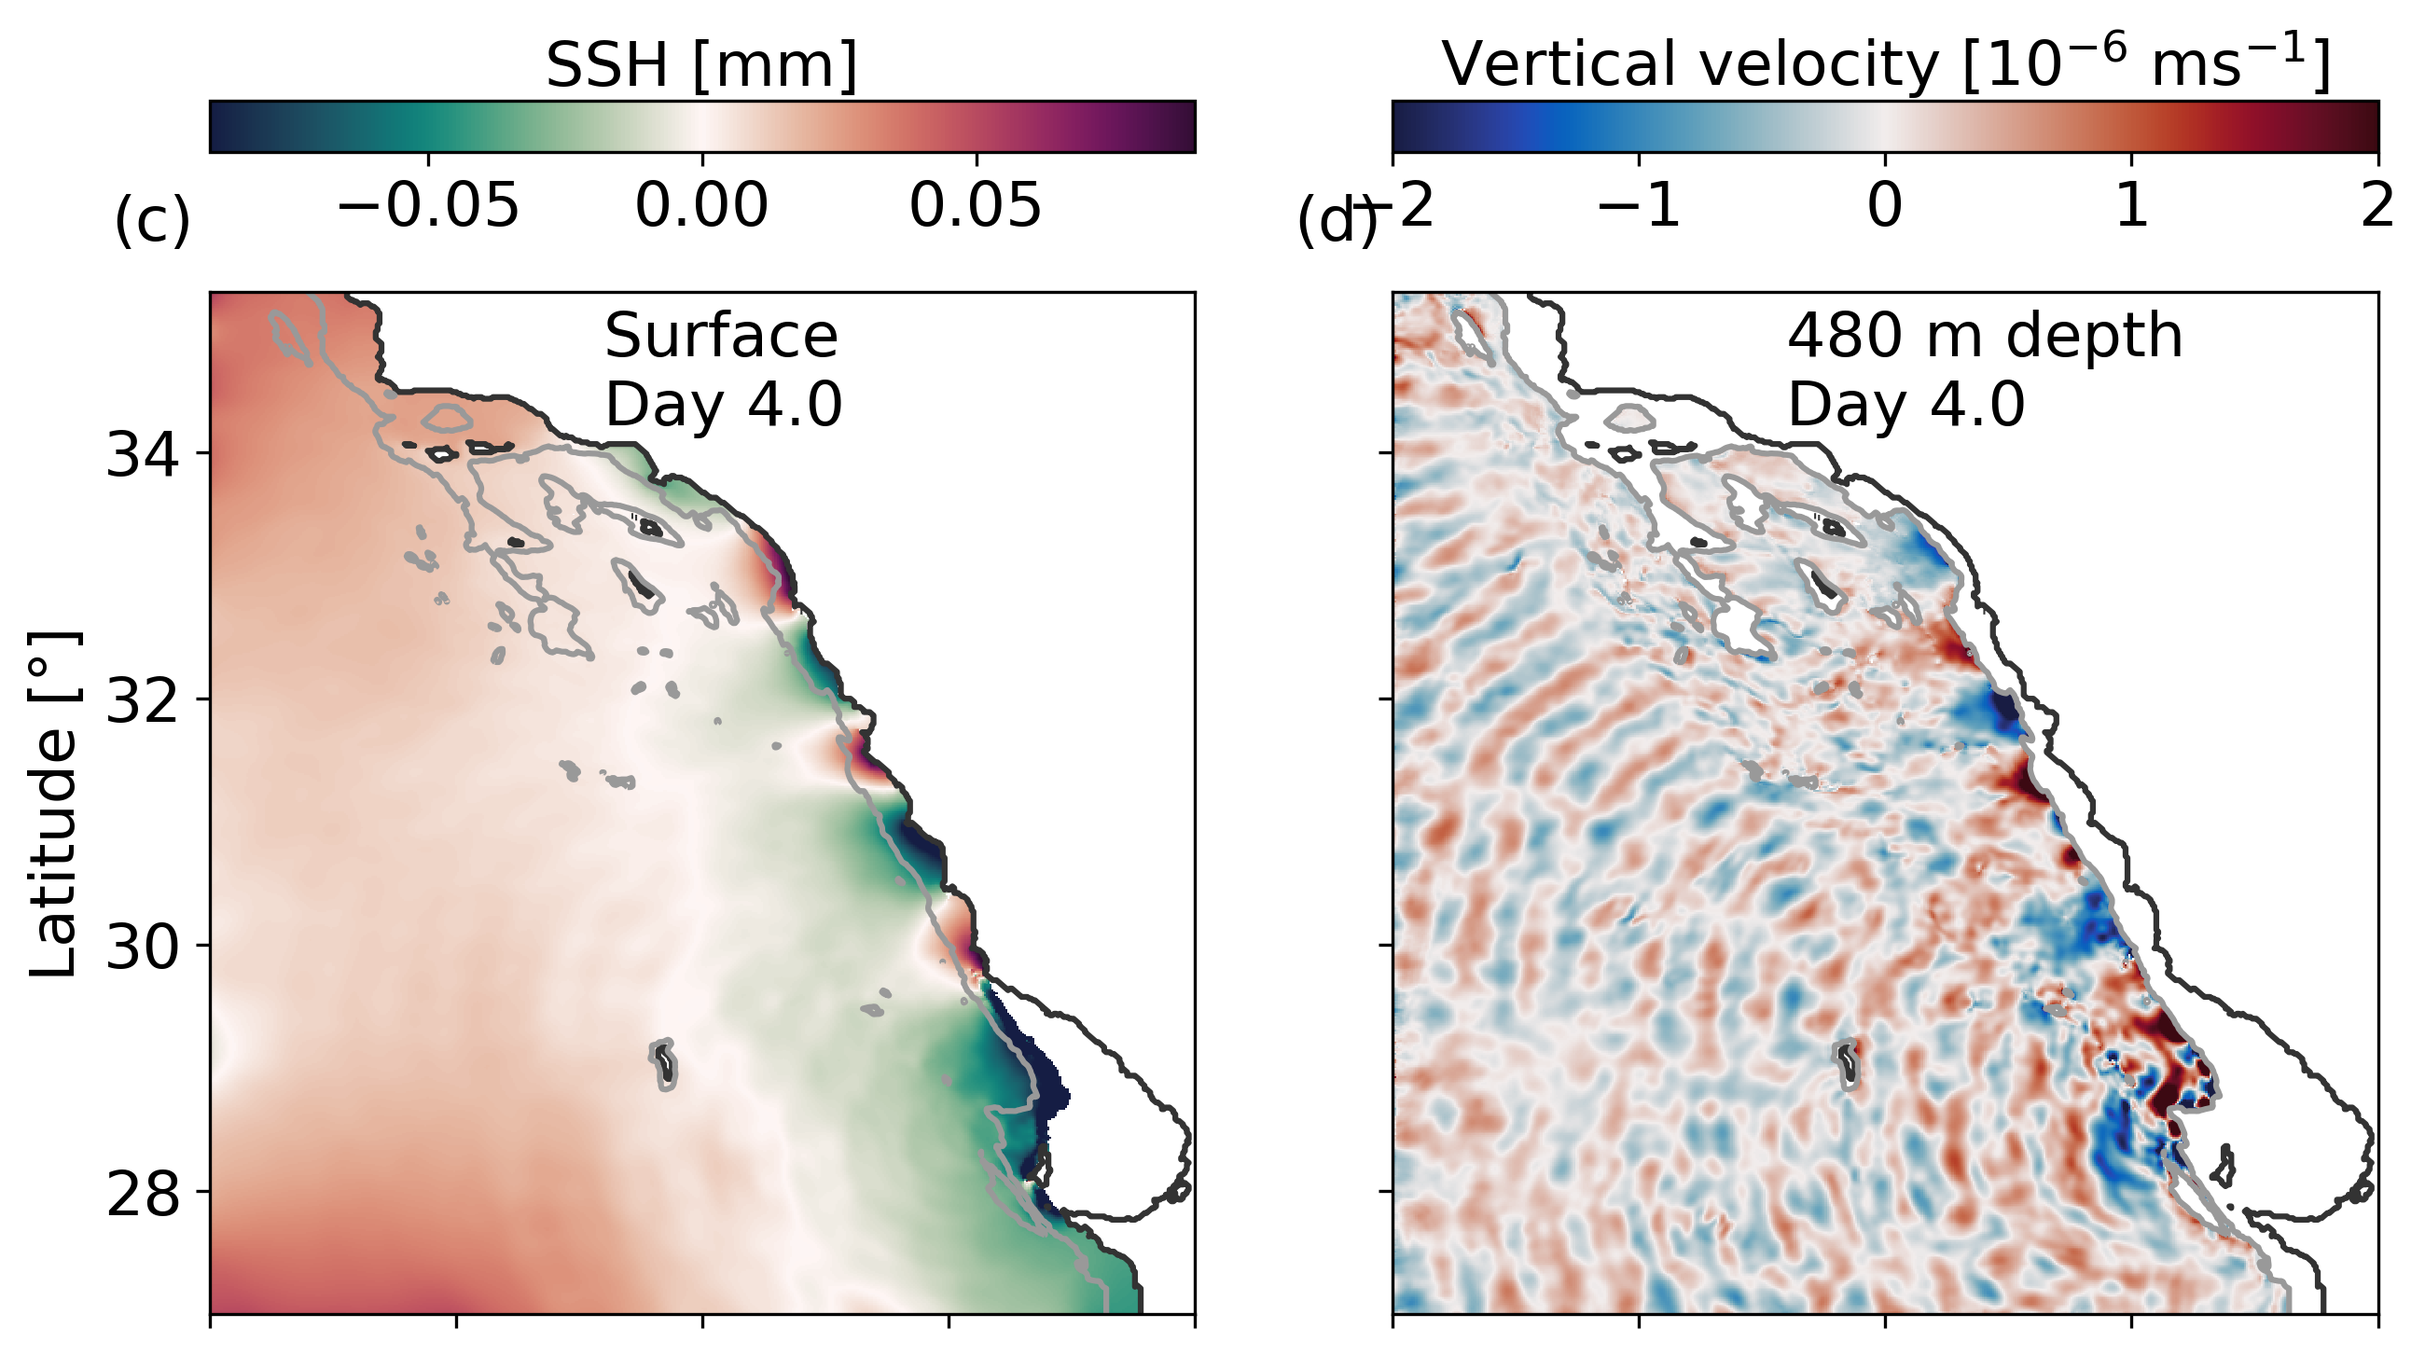
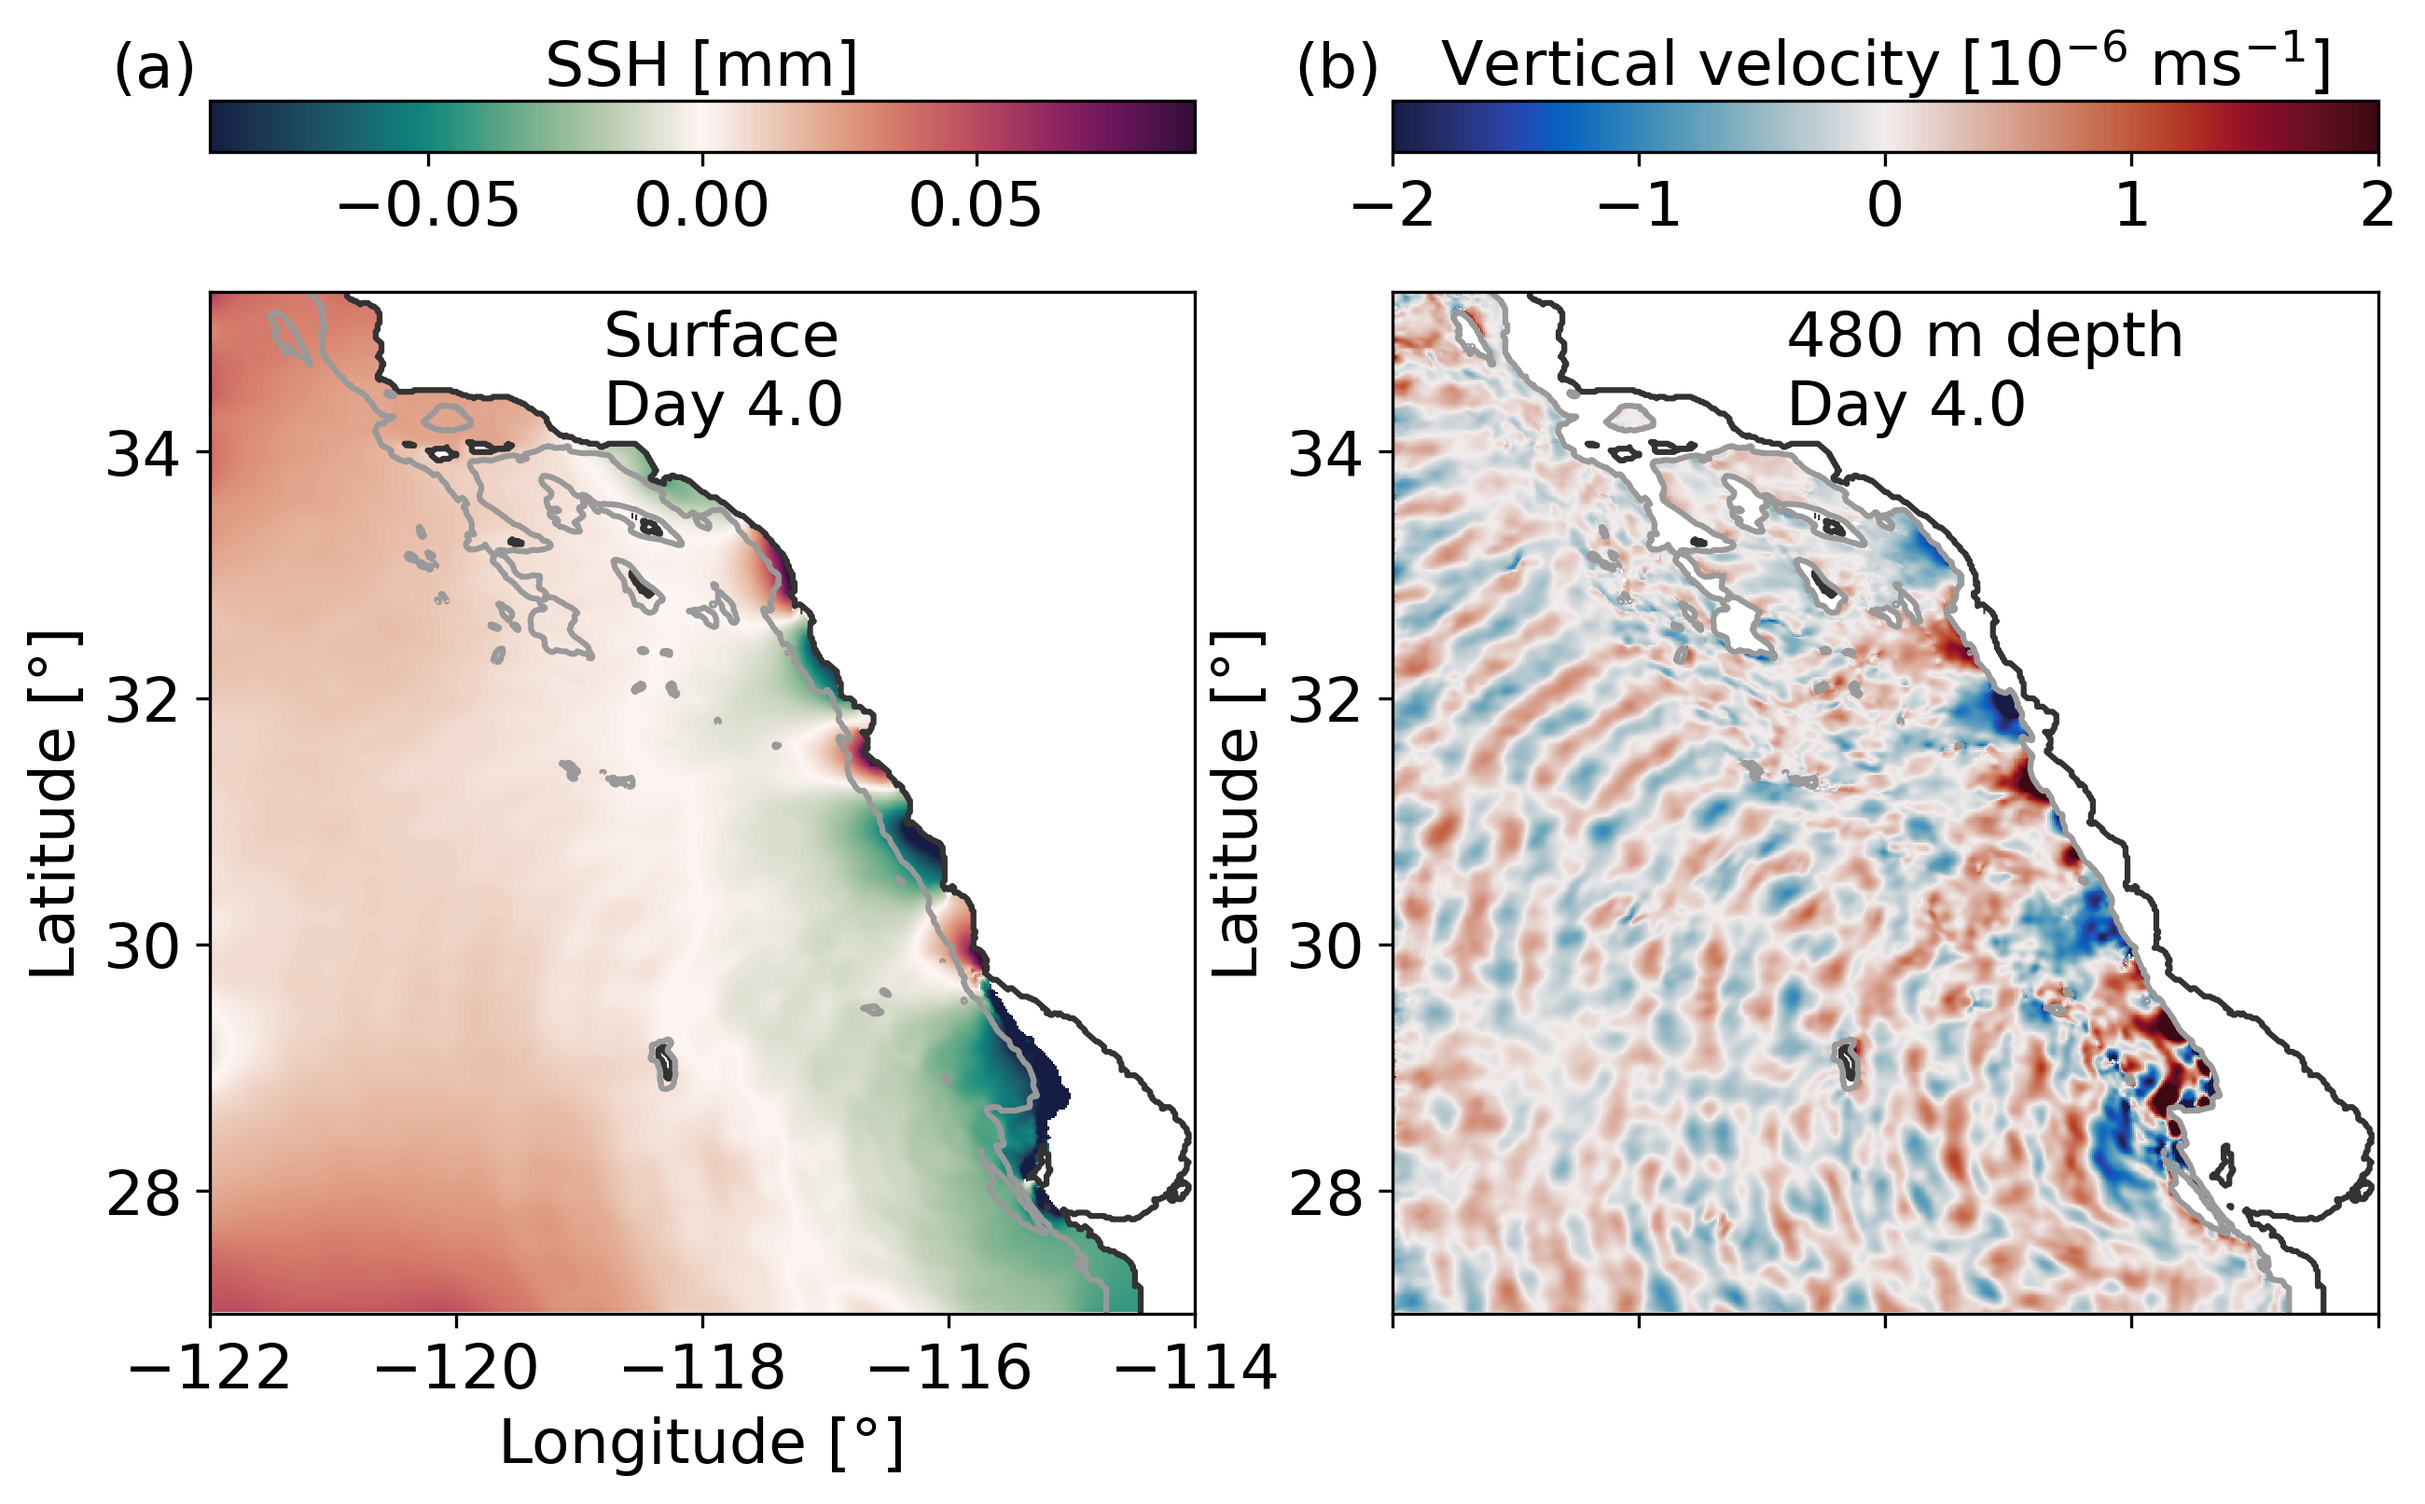
NewWave

diff --git a/Scripts/FigWavesPresent.py b/Scripts/FigWavesPresent.py
@@ -73,7 +73,7 @@ plt.rcParams['figure.dpi'] = 300
 plt.rcParams['savefig.dpi'] = 300
 
 fig = plt.figure()
-gs = GridSpec(nrows=3, ncols=2,hspace=0.01)
+gs = GridSpec(nrows=1, ncols=2,hspace=0.01)
 
 vmin=-0.009*10
 vmax=0.009*10
@@ -88,7 +88,7 @@ ylab='Latitude [°]'
 ax = fig.add_subplot(gs[0,0]) 
 
 ax.set_facecolor('tan')
-cax = ax.pcolormesh(LON,LAT,np.ma.masked_array(etafiltall[ind,:,:]*1000, mask=mask[0,:,:]),cmap=cmocean.cm.curl,vmin=vmin,vmax=vmax)
+cax = ax.pcolormesh(LON,LAT,np.ma.masked_array(etafiltall[ind2,:,:]*1000, mask=mask[0,:,:]),cmap=cmocean.cm.curl,vmin=vmin,vmax=vmax)
 ax.contour(LON,LAT,depth,  colors=['0.2','0.6'], 
                 levels=[0,500])
 
@@ -99,61 +99,21 @@ cbar_ax = plt.colorbar(cax, cax=axdiv,orientation='horizontal')
 cbar_ax.ax.xaxis.set_label_position("top")
 cbar_ax.set_label('SSH [mm]')
 
-ax.tick_params(axis='x',which='both', bottom=True, top=False, labelbottom=False)
-ax.set( ylabel=ylab)
-
 ax.text(-0.1,1.2, '(a)', transform=ax.transAxes)
-ax.text(0.4,0.87, f'Surface \nDay {TIME[ind]/(60*24)}', transform=ax.transAxes,horizontalalignment='left')
-
-ax.set_xlim(-122,-114) 
-ax.set_ylim(27,35.3)
-ax.set_aspect(1)
-
-ax = fig.add_subplot(gs[1,0]) 
-
-ax.set_facecolor('tan')
-cax = ax.pcolormesh(LON,LAT,np.ma.masked_array(etafiltall[ind2,:,:]*1000, mask=mask[0,:,:]),cmap=cmocean.cm.curl,vmin=vmin,vmax=vmax)
-ax.contour(LON,LAT,depth,  colors=['0.2','0.6'], 
-                levels=[0,500])
-
-ax.tick_params(axis='x',which='both', bottom=True, top=False, labelbottom=False)
-ax.set(ylabel=ylab)
-cbar_ax.set_label('SSH [mm]')
-
-ax.text(-0.1,1.05, '(c)', transform=ax.transAxes)
 ax.text(0.4,0.87, f'Surface \nDay {TIME[ind2]/(60*24)}', transform=ax.transAxes,horizontalalignment='left')
 
 ax.set_xlim(-122,-114) 
 ax.set_ylim(27,35.3)
 ax.set_aspect(1)
-
-ax = fig.add_subplot(gs[2,0]) 
-
-ax.set_facecolor('tan')
-cax = ax.pcolormesh(LON,LAT,np.ma.masked_array(etafiltall[ind3,:,:]*1000, mask=mask[0,:,:]),cmap=cmocean.cm.curl,vmin=vmin,vmax=vmax)
-ax.contour(LON,LAT,depth,  colors=['0.2','0.6'], 
-                levels=[0,500])
-
-
 ax.set(xlabel=xlab, ylabel=ylab)
-cbar_ax.set_label('SSH [mm]')
-
-ax.text(-0.1,1.05, '(e)', transform=ax.transAxes)
-ax.text(0.4,0.87, f'Surface \nDay {TIME[ind3]/(60*24)}', transform=ax.transAxes,horizontalalignment='left')
-
-ax.set_xlim(-122,-114) 
-ax.set_ylim(27,35.3)
-ax.set_aspect(1)
-
 
 vmin=-0.000002*1e6
 vmax=0.000002*1e6
 
 
 ax = fig.add_subplot(gs[0,1]) 
-
 ax.set_facecolor('tan')
-cax = ax.pcolormesh(LON,LAT,np.ma.masked_array(Ww-Wn, mask=mask[55,:,:])*1e6,cmap=cmocean.cm.balance,vmin=vmin,vmax=vmax)
+cax = ax.pcolormesh(LON,LAT,np.ma.masked_array(Ww2-Wn2, mask=mask[55,:,:])*1e6,cmap=cmocean.cm.balance,vmin=vmin,vmax=vmax)
 ax.contour(LON,LAT,depth, colors=['0.2','0.6'], 
                 levels=[0,500])
 
@@ -164,50 +124,18 @@ cbar_ax = plt.colorbar(cax, cax=axdiv,orientation='horizontal')
 cbar_ax.ax.xaxis.set_label_position("top")
 cbar_ax.set_label('Vertical velocity [$10^{-6}$ ms$^{-1}$]')
 
-ax.tick_params(axis='y',which='both', left=True, right=False, labelleft=False) 
 ax.tick_params(axis='x',which='both', bottom=True, top=False, labelbottom=False)
 
-ax.text(0.4,0.87, f'480 m depth \nDay {TIMEvel[0]/(60*24)}', transform=ax.transAxes,horizontalalignment='left')
-ax.text(-0.1,1.2, '(b)', transform=ax.transAxes)
-
-ax.set_xlim(-122,-114) 
-ax.set_ylim(27,35.3)
-ax.set_aspect(1)
-
-ax = fig.add_subplot(gs[1,1]) 
-
-ax.set_facecolor('tan')
-cax = ax.pcolormesh(LON,LAT,np.ma.masked_array(Ww2-Wn2, mask=mask[55,:,:])*1e6,cmap=cmocean.cm.balance,vmin=vmin,vmax=vmax)
-ax.contour(LON,LAT,depth, colors=['0.2','0.6'], 
-                levels=[0,500])
-
-ax.tick_params(axis='y',which='both', left=True, right=False, labelleft=False) 
-ax.tick_params(axis='x',which='both', bottom=True, top=False, labelbottom=False)
+ax.set(ylabel=ylab)
 
 ax.text(0.4,0.87, f'480 m depth \nDay {TIMEvel2[0]/(60*24)}', transform=ax.transAxes,horizontalalignment='left')
-ax.text(-0.1,1.05, '(d)', transform=ax.transAxes)
+ax.text(-0.1,1.2, '(b)', transform=ax.transAxes)
 
 
 ax.set_xlim(-122,-114) 
 ax.set_ylim(27,35.3)
 ax.set_aspect(1)
 
-ax = fig.add_subplot(gs[2,1]) 
-
-ax.set_facecolor('tan')
-cax = ax.pcolormesh(LON,LAT,np.ma.masked_array(Ww3-Wn3, mask=mask[55,:,:])*1e6,cmap=cmocean.cm.balance,vmin=vmin,vmax=vmax)
-ax.contour(LON,LAT,depth, colors=['0.2','0.6'], 
-                levels=[0,500])
-
-ax.tick_params(axis='y',which='both', left=True, right=False, labelleft=False) 
-ax.set(xlabel=xlab)
-
-ax.text(0.4,0.87, f'480 m depth \nDay {TIMEvel3[0]/(60*24)}', transform=ax.transAxes,horizontalalignment='left')
-ax.text(-0.1,1.05, '(f)', transform=ax.transAxes)
 
 
-ax.set_xlim(-122,-114) 
-ax.set_ylim(27,35.3)
-ax.set_aspect(1)
-
-plt.savefig('/home/athelandersson/CTW-analysis/Figures/' + str(coast) + '/fig2Waves.png', transparent=True,bbox_inches='tight')
+plt.savefig('/home/athelandersson/CTW-analysis/Figures/' + str(coast) + 'fig2Waves.png', transparent=True,bbox_inches='tight')
